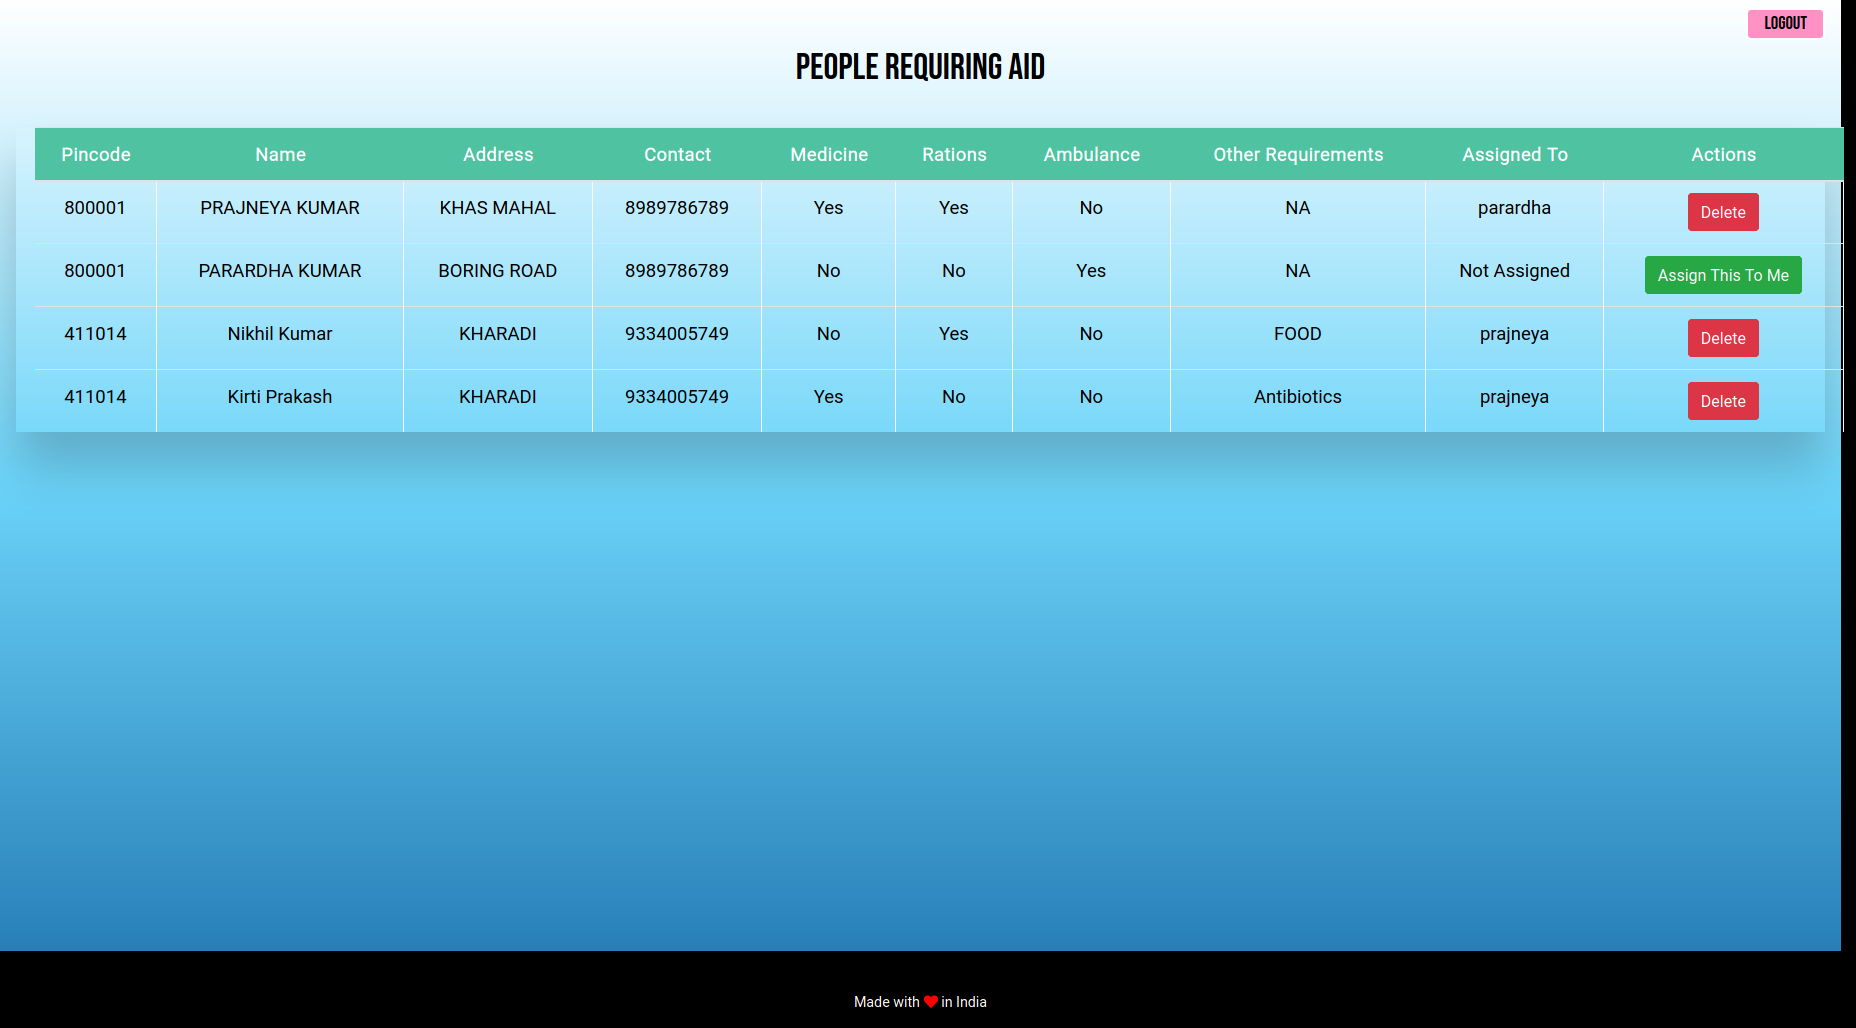
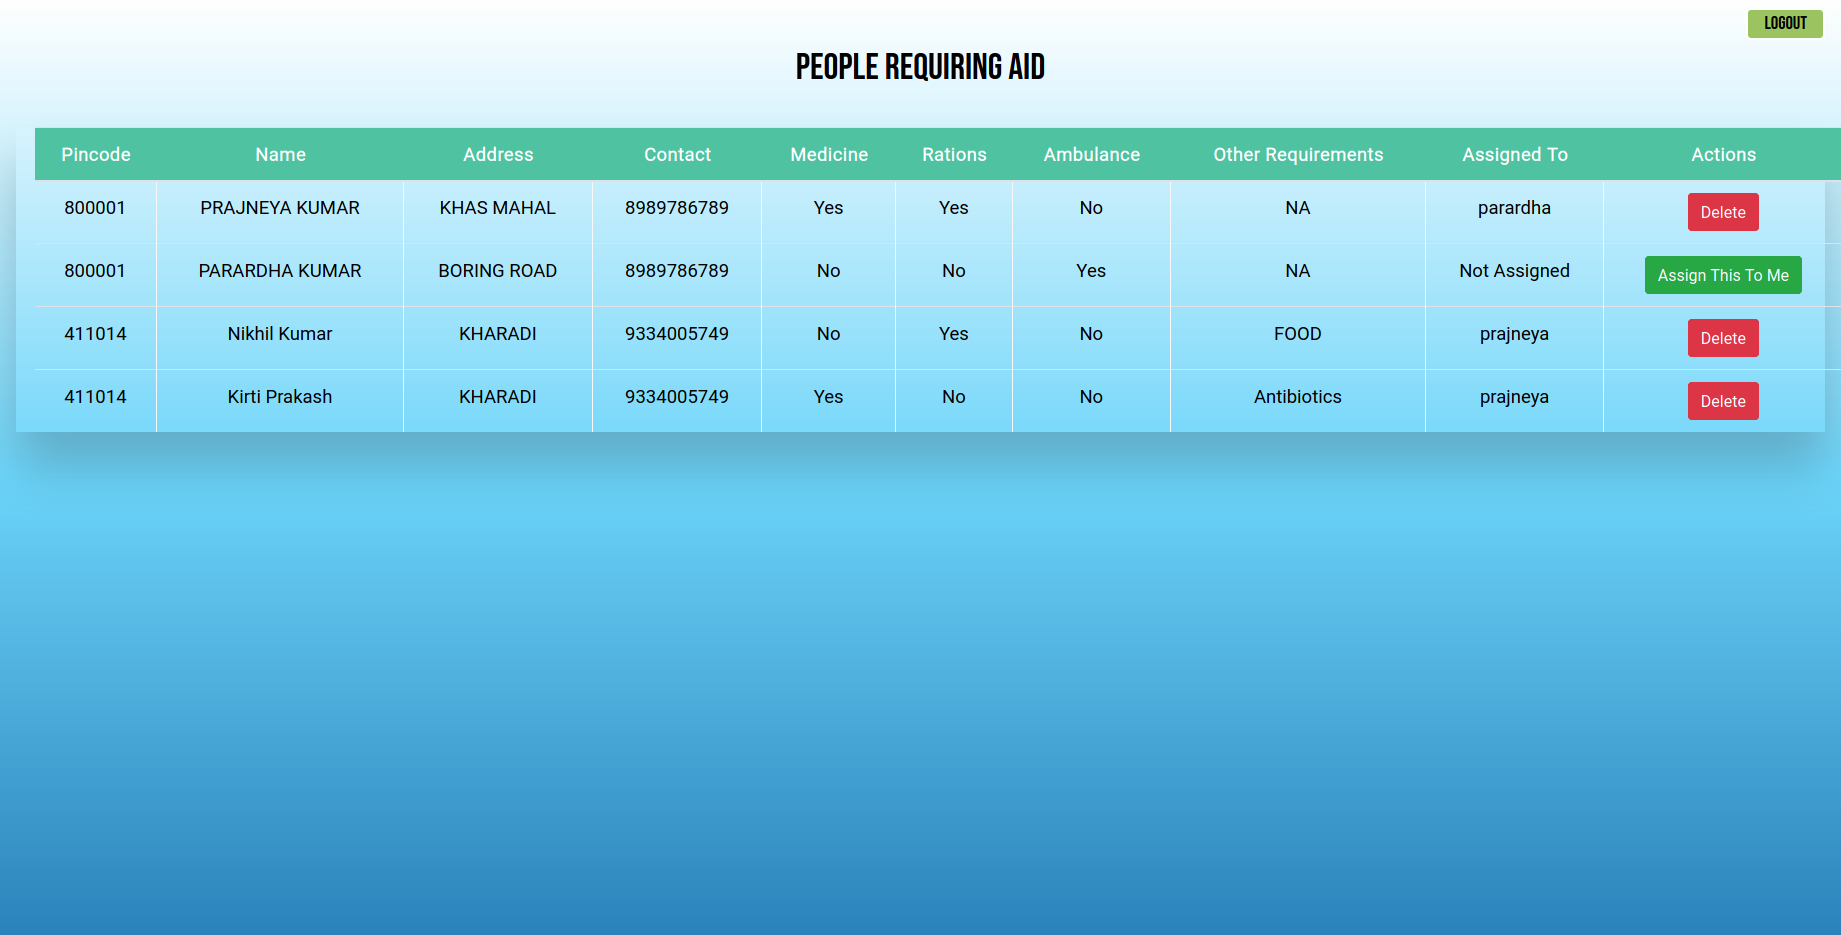
Update Screens

diff --git a/public/css/app.css b/public/css/app.css
@@ -59,7 +59,7 @@ body{
   border-width: 2px;
   border-radius: 5px;
   color: black;
-  background: rgba(255, 145, 196);
+  background: rgba(155, 195, 96);
 }
 
 .logout:hover{
